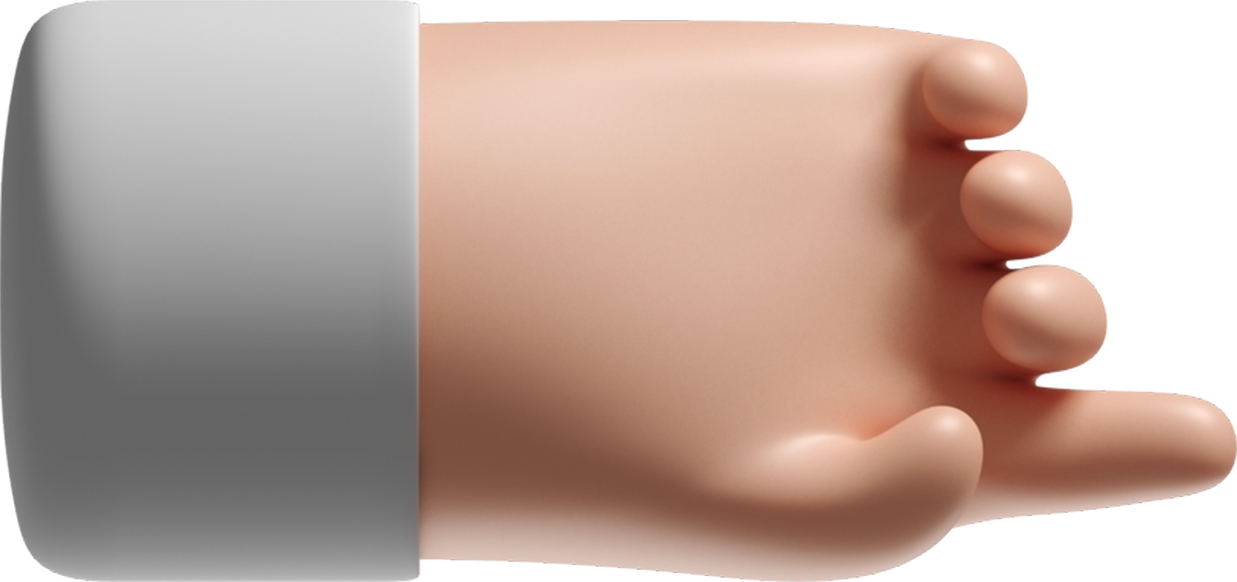
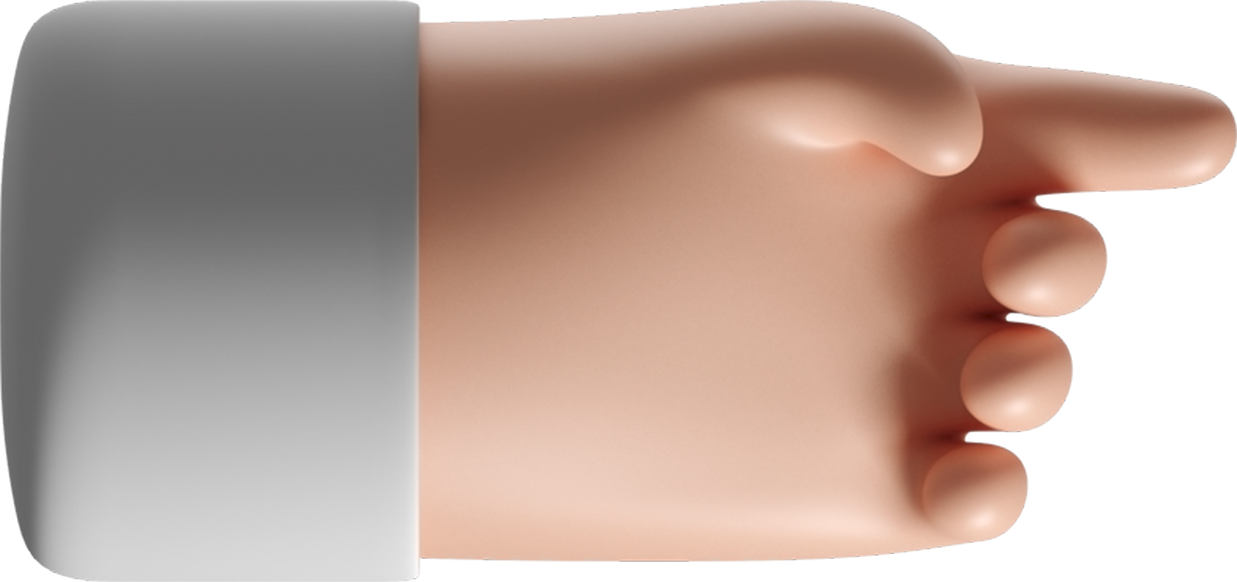
responsive gradient, changed hand image and added animation to it

diff --git a/components/support-section/support-section.js b/components/support-section/support-section.js
@@ -5,43 +5,50 @@ import Image from "next/image";
 
 export default function SupportSection() {
   return (
-    <div className="relative min-h-[960px] container mx-auto flex flex-col justify-center items-center px-8 bg-gradient-to-b from-[#1F194D]">
-      <div className="flex z-10 relative">
-        <div className="w-1/2">
-          <Image src={Hand} alt="Hand image" />
-        </div>
-        <div className="flex flex-col w-1/2 ">
-          <h1 className="text-6xl flex justify-end">SUPPORT US!</h1>
-          <span className="tracking-wide">
-            <b className="text-yellow">Your support means a lot</b>! If you
-            enjoy <b className="text-yellow">30 Seconds of Knowledge</b> and
-            want to support its growth, consider{" "}
-            <b className="text-yellow">making a small donation</b>
-          </span>
-          <a
-            className="gumroad-button my-6 flex justify-end"
-            href="https://30secondsofknowledge.gumroad.com/l/thhgl"
-          >
-            Donate on
-          </a>
-          <div className="flex justify-end">
-            <p className="order-last ml-3">
-              or by checking out <b className="text-yellow">our merch</b>
-            </p>
-            <MerchArrow width={180} />
+    <div className="bg-gradient-to-b from-[#1F194D]">
+      <div className="relative min-h-[960px] container mx-auto flex flex-col justify-center items-center px-8">
+        <div className="flex z-10">
+          <div className="w-1/2 flex items-start justify-center">
+            <Image
+              src={Hand}
+              alt="Hand image"
+              className="w-11/12 animate-handFloat "
+            />
+          </div>
+          <div className="flex flex-col w-1/2 items-end">
+            <h1 className="text-6xl">SUPPORT US!</h1>
+            <span className="text-right">
+              <b className="text-yellow">Your support means a lot</b>! If you
+              enjoy <b className="text-yellow">30 Seconds of Knowledge</b>
+              <br />
+              and want to support its growth, consider{" "}
+              <b className="text-yellow">making a small donation</b>
+            </span>
+            <a
+              className="gumroad-button my-6 w-64"
+              href="https://30secondsofknowledge.gumroad.com/l/thhgl"
+            >
+              Donate On
+            </a>
+            <div className="flex">
+              <p className="order-last ml-3">
+                or by checking out <b className="text-yellow">our merch</b>
+              </p>
+              <MerchArrow width={180} />
+            </div>
           </div>
         </div>
-      </div>
-      <Circle className="absolute z-0 -top-8 max-h-[420px] w-[90%] animate-float" />
+        <Circle className="absolute z-0 -top-8 max-h-[420px] w-[90%] animate-float" />
 
-      <iframe
-        style={{ borderRadius: "24px", border: "none", marginTop: "32px" }}
-        src="https://embed.creator-spring.com/widget?slug=30-seconds-of-knowledge&per=20&currency=&page=1&layout=carousel-wide&theme=dark"
-        title="30 Seconds Of Knowledge Merch store powered by Spring"
-        width="100%"
-        height="420"
-        data-reactroot=""
-      />
+        <iframe
+          style={{ borderRadius: "24px", border: "none", marginTop: "32px" }}
+          src="https://embed.creator-spring.com/widget?slug=30-seconds-of-knowledge&per=20&currency=&page=1&layout=carousel-wide&theme=dark"
+          title="30 Seconds Of Knowledge Merch store powered by Spring"
+          width="100%"
+          height="420"
+          data-reactroot=""
+        />
+      </div>
     </div>
   );
 }

diff --git a/tailwind.config.js b/tailwind.config.js
@@ -40,12 +40,18 @@ module.exports = {
           "50%": { transform: "translatey(-20px)" },
           "100%": { transform: "translatey(0px)" },
         },
+        handFloat: {
+          "0%": { transform: "translatex(0px)" },
+          "50%": { transform: "translatex(-20px)" },
+          "100%": { transform: "translatex(0px)" },
+        },
       },
       animation: {
         shake: "shake 3s linear infinite",
         shock: "shock 1s linear infinite",
         loop: "loop var(--duration) linear infinite var(--direction)",
-        float: "float 4s linear infinite",
+        float: "float 6s linear infinite",
+        handFloat: "handFloat 3s linear infinite",
       },
       colors: {
         transparent: "transparent",
